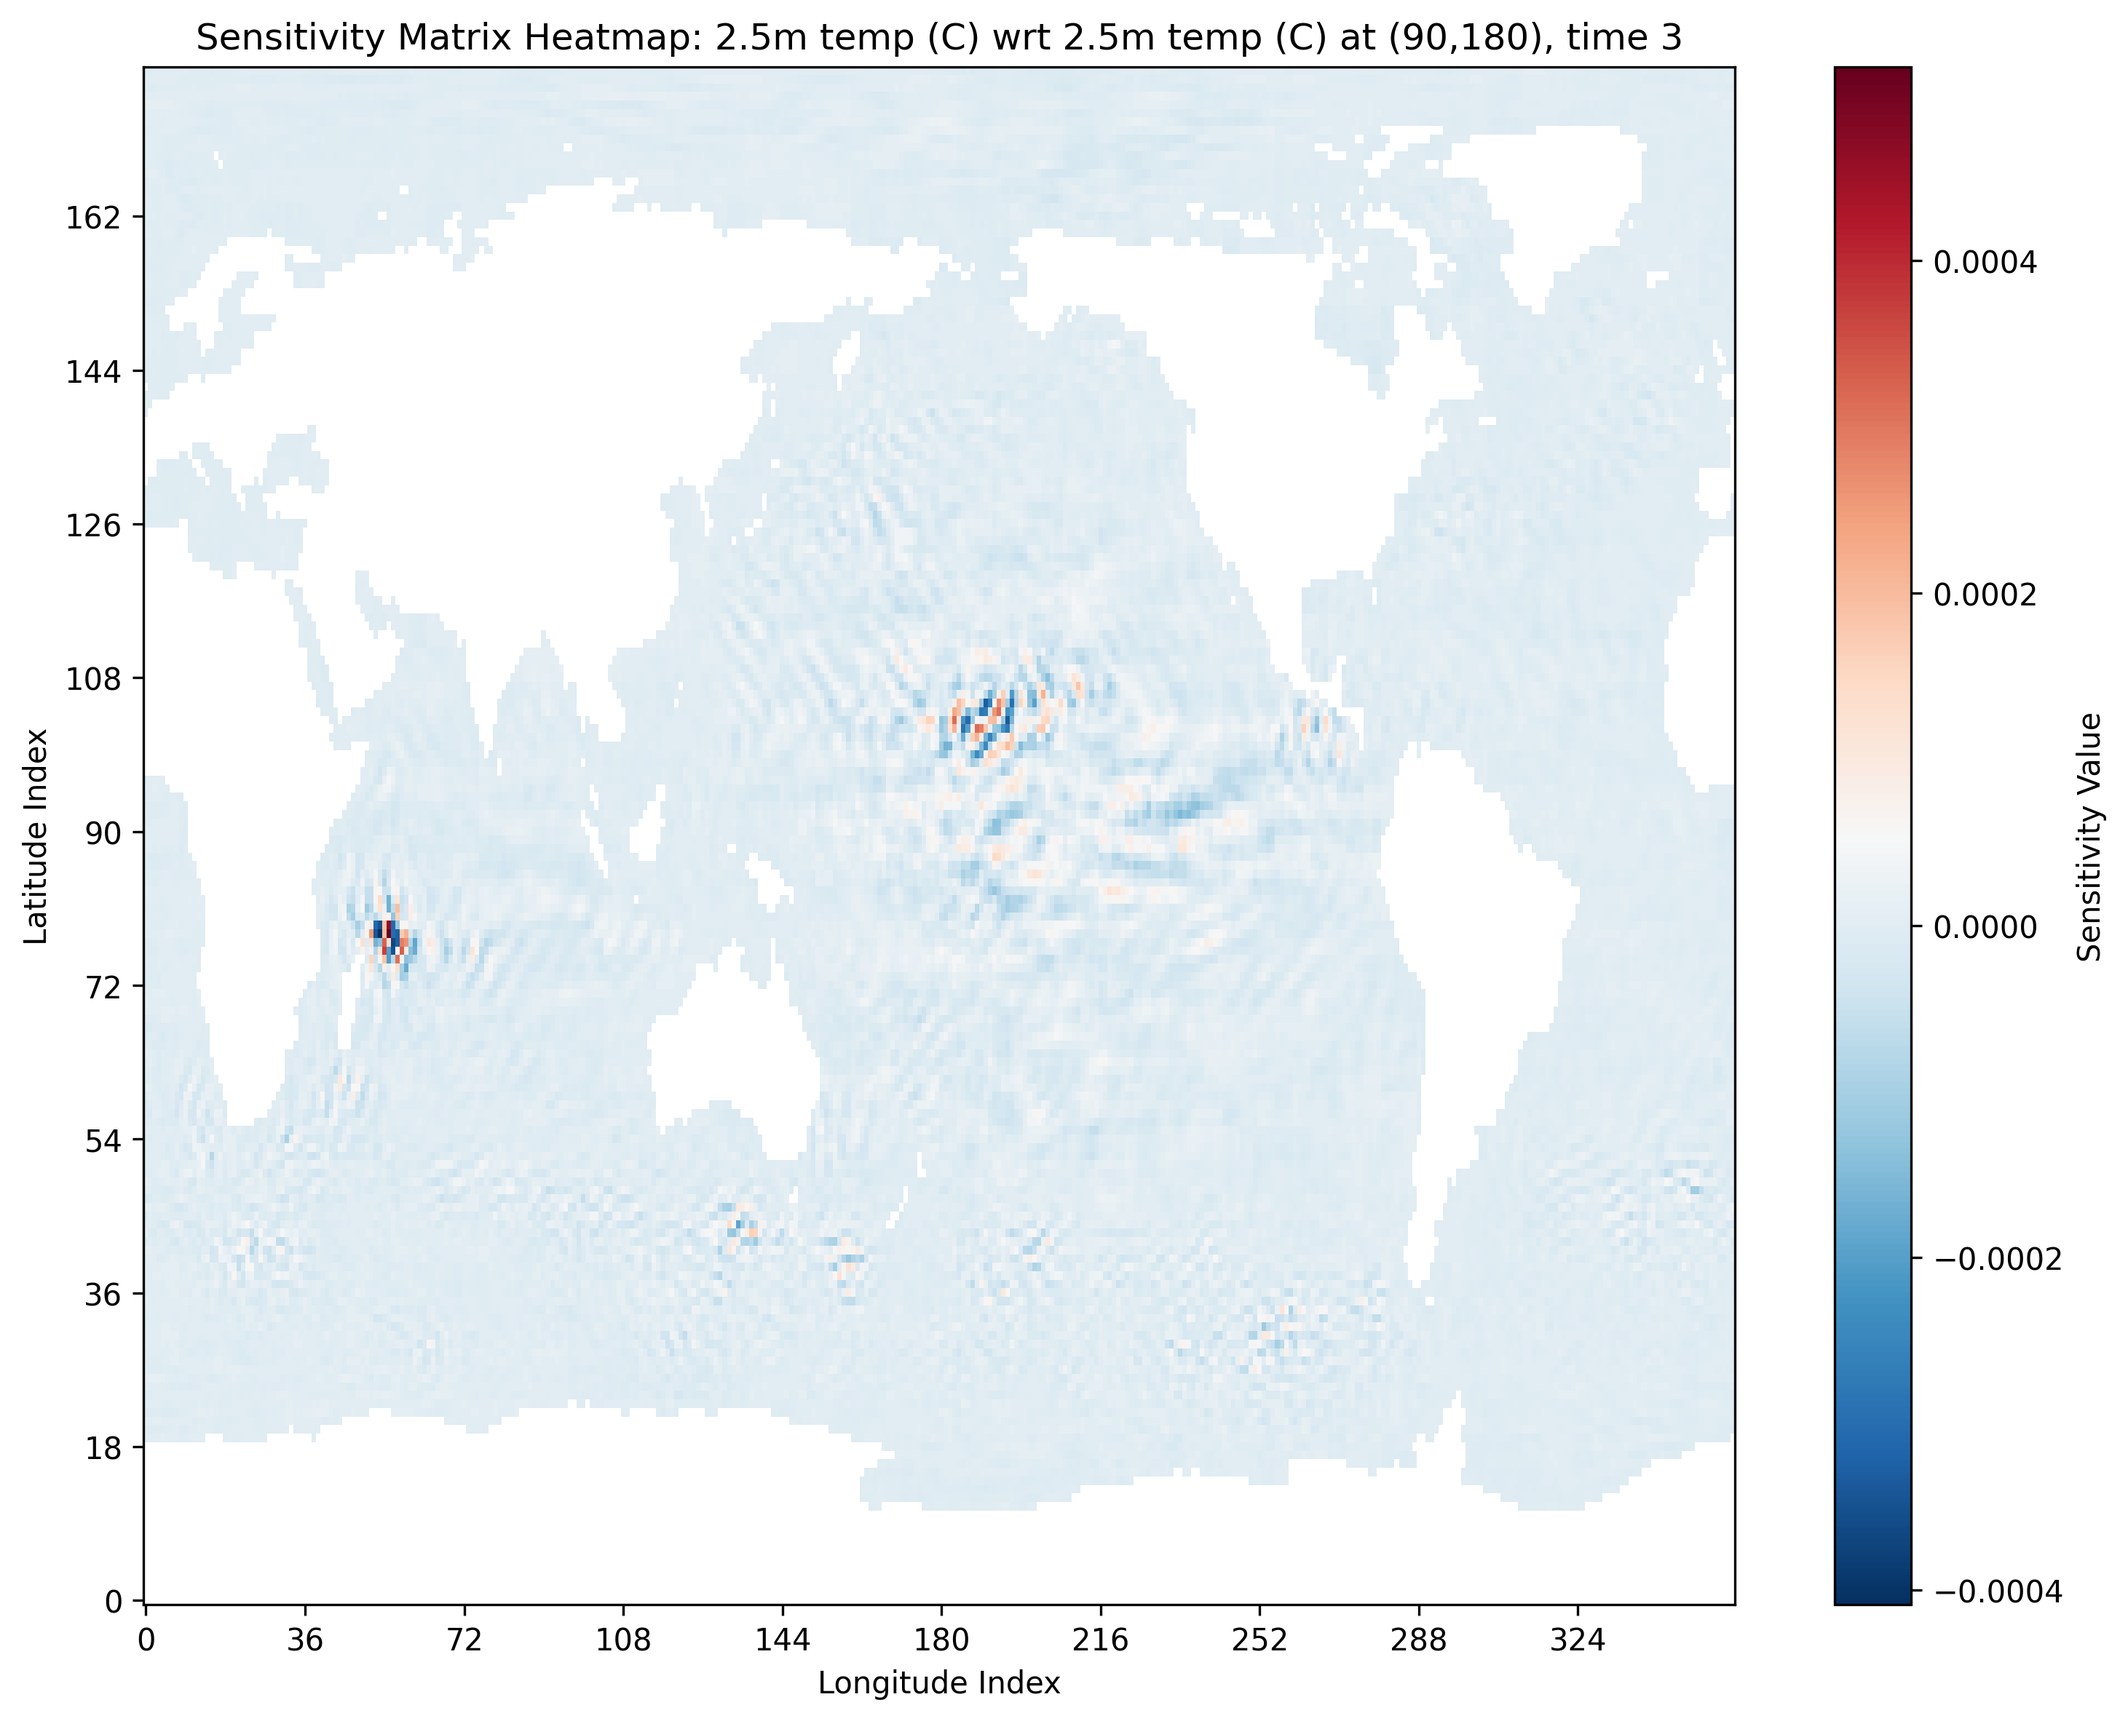
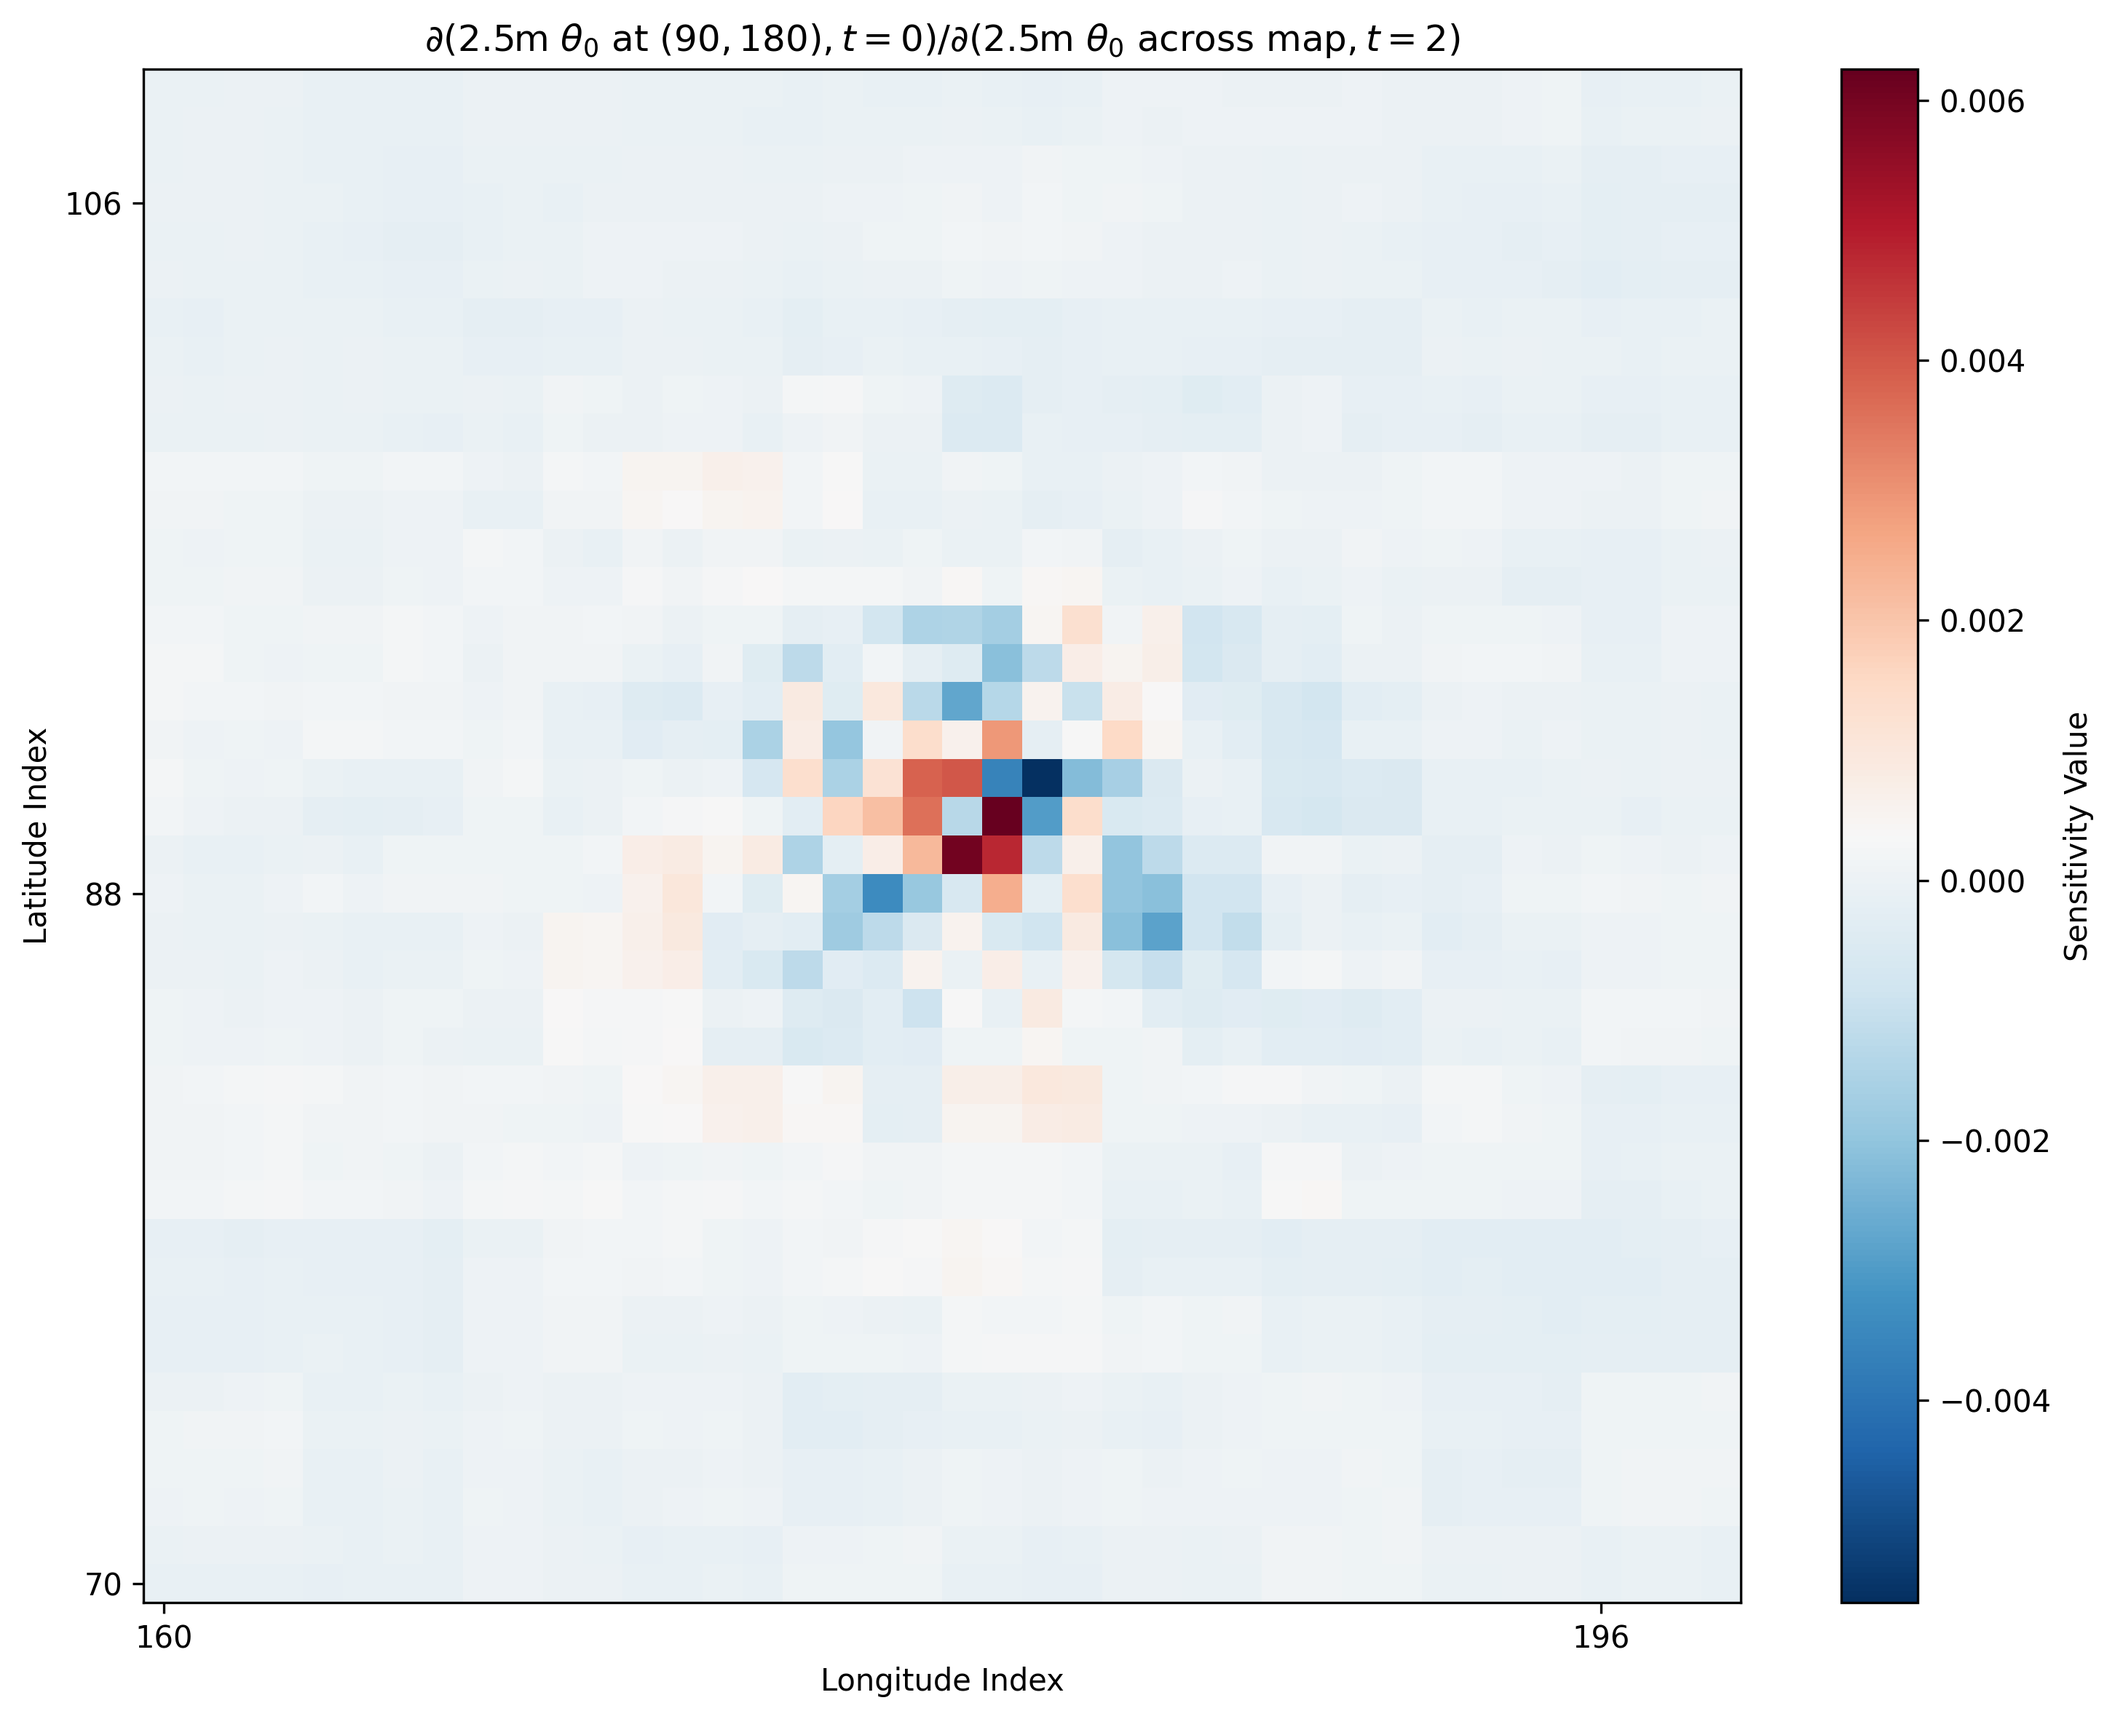
Sensitivity test+file reorganize

diff --git a/Samudra_Testing/perturbation_test.py b/Samudra_Testing/perturbation_test.py
@@ -1,0 +1,131 @@
+import torch
+import numpy as np
+
+def simple_sensitivity(model, data_input, source_coords, target_coords, perturbation_size=1e-4):
+    """
+    Computes sensitivity of target cell to a perturbation in source cell.
+    
+    Parameters:
+    -----------
+    model : torch.nn.Module
+        The model to evaluate sensitivity for
+    data_input : torch.Tensor
+        Input tensor to the model (b, c, h, w)
+    source_coords : tuple
+        (channel, y, x) coordinates of source cell to perturb
+    target_coords : tuple
+        (channel, y, x) coordinates of target cell to measure
+    perturbation_size : float
+        Size of perturbation to apply
+        
+    Returns:
+    --------
+    sensitivity : float
+        Sensitivity value between source and target cells
+    """
+    model.eval()
+    
+    # Make sure we don't modify the original input
+    data_input = data_input.clone().detach()
+    
+    # Unpack coordinates
+    s_c, s_y, s_x = source_coords
+    t_c, t_y, t_x = target_coords
+    
+    # Step 1: Run model on unperturbed input
+    with torch.no_grad():
+        baseline_output = model.forward_once(data_input)
+        baseline_value = baseline_output[0, t_c, t_y, t_x].item()
+    
+    # Step 2: Perturb the input at source coordinates
+    perturbed_input = data_input.clone()
+    perturbed_input[0, s_c, s_y, s_x] += perturbation_size
+    
+    # Step 3: Run model on perturbed input
+    with torch.no_grad():
+        perturbed_output = model.forward_once(perturbed_input)
+        perturbed_value = perturbed_output[0, t_c, t_y, t_x].item()
+    
+    # Step 4: Calculate sensitivity
+    sensitivity = (perturbed_value - baseline_value) / perturbation_size
+    
+    return sensitivity
+
+# Example usage:
+if __name__ == "__main__":
+    # Load model and data 
+    from model import Samudra
+    from data_loaders import Test
+    from utils import extract_wet
+    import xarray as xr
+    
+    # Quick setup for example
+    device = torch.device("cuda" if torch.cuda.is_available() else "cpu")
+    data = xr.open_zarr("./data.zarr")
+    data_mean = xr.open_zarr("./data_mean.zarr")
+    data_std = xr.open_zarr("./data_std.zarr")
+    
+    # Configure model (simplified from samudra_rollout.py)
+    hist = 1
+    exp_num_in = "3D_thermo_all"  # Could also be "3D_thermo_dynamic_all"
+    exp_num_extra = "3D_all_hfds_anom"
+    
+    # Define input variables based on experiment type
+    DEPTH_LEVELS = ['2_5', '10_0', '22_5', '40_0', '65_0', '105_0', '165_0', '250_0', '375_0', 
+                   '550_0', '775_0', '1050_0', '1400_0', '1850_0', '2400_0', '3100_0', 
+                   '4000_0', '5000_0', '6000_0']
+    
+    INPT_VARS = {
+        "3D_thermo_dynamic_all": [f"{k}{j}" for k in ["uo_lev_", "vo_lev_", "thetao_lev_", "so_lev_"] 
+                                 for j in DEPTH_LEVELS] + ["zos"],
+        "3D_thermo_all": [f"{k}{j}" for k in ["thetao_lev_", "so_lev_"] 
+                         for j in DEPTH_LEVELS] + ["zos"]
+    }
+    EXTRA_VARS = {"3D_all_hfds_anom": ["tauuo", "tauvo", "hfds", "hfds_anomalies"]}
+    OUT_VARS = INPT_VARS.copy()
+    
+    inputs_str = INPT_VARS[exp_num_in]
+    extra_in_str = EXTRA_VARS[exp_num_extra]
+    outputs_str = OUT_VARS[exp_num_in]
+    
+    N_in = len(inputs_str)
+    N_extra = len(extra_in_str)
+    N_out = len(outputs_str)
+    
+    num_in = int((hist + 1) * N_in + N_extra)
+    num_out = int((hist + 1) * len(outputs_str))
+    
+    # Create model
+    wet_zarr = data.wetmask
+    wet = extract_wet(wet_zarr, outputs_str, hist)
+    
+    # Load model
+    model = Samudra(n_out=num_out, ch_width=[num_in]+[200,250,300,400], wet=wet.to(device), hist=hist)
+    model.load_state_dict(torch.load("samudra_thermo_seed1.pt", map_location=device)["model"])
+    model = model.to(device)
+    
+    # Create test data
+    test_data = Test(
+        data,
+        inputs_str,
+        extra_in_str,
+        outputs_str,
+        wet,
+        data_mean,
+        data_std,
+        10,  # N_test
+        hist,
+        0,
+        long_rollout=False,
+        device=device,
+    )
+    
+    # Get input data
+    input_data = test_data[0][0].to(device)
+    
+    # Test sensitivity
+    source_coords = (0, 90, 180)  # Surface temperature at center of grid
+    target_coords = (0, 90, 180)  # Surface temperature at nearby point
+    
+    sensitivity = simple_sensitivity(model, input_data, source_coords, target_coords)
+    print(f"Sensitivity from {source_coords} to {target_coords}: {sensitivity}")

diff --git a/Samudra_Testing/plot_sensitivity.py b/Samudra_Testing/plot_sensitivity.py
@@ -12,7 +12,7 @@ print(f"Original sensitivity matrix shape: {sensitivity_matrix.shape}")
 
 sensitivity_latitude = 90  # Center latitude for the matrix (assuming 180x360 grid)
 sensitivity_longitude = 180  # Center longitude for the matrix (assuming 180x360 grid)
-time=3
+t0,t1 = 0,2
 """
 # Path to the wetmask file
 wetmask_path = 'full_wetmask.npy'
@@ -47,12 +47,21 @@ else:
 sensitivity_matrix = sensitivity_matrix.reshape(180, 360)
 print(f"Reshaped sensitivity matrix: {sensitivity_matrix.shape}")
 
-# Define the region of interest in the matrix for cropping
-xmin, xmax = 90-3, 90+4  # Matrix row indices
-ymin, ymax = 180-3, 180+4  # Matrix column indices
+size = "local"
 
-xmin, xmax = 0, 180
-ymin, ymax = 0, 360
+if size == "tiny":
+    # Define the region of interest in the matrix for cropping
+    xmin, xmax = 90-3, 90+4  # Matrix row indices
+    ymin, ymax = 180-3, 180+4  # Matrix column indices
+
+if size == "local":
+    xmin, xmax = 90-20, 90+20  # Matrix row indices
+    ymin, ymax = 180-20, 180+20  # Matrix column indices
+
+if size == "global":
+    xmin, xmax = 0, 180
+    ymin, ymax = 0, 360
+
 
 # Crop the sensitivity matrix to the region of interest
 cropped_sensitivity = sensitivity_matrix[xmin:xmax, ymin:ymax]
@@ -89,7 +98,7 @@ plt.xticks(x_positions[::36], col_indices[::36])  # Show every 36th index for re
 plt.yticks(y_positions[::18], row_indices[::18])  # Show every 18th index for readability
 
 plt.colorbar(label='Sensitivity Value')
-plt.title(f'Sensitivity Matrix Heatmap: 2.5m temp (C) wrt 2.5m temp (C) at ({sensitivity_latitude},{sensitivity_longitude}), time {time}')
+plt.title(f'$\\partial \\left( \\text{{2.5m }} \\theta_0 \\text{{ at }}({sensitivity_latitude},{sensitivity_longitude}), t={t0} \\right) / \\partial \\left( \\text{{2.5m }} \\theta_0 \\text{{ across map}}, t={t1} \\right)$')
 plt.xlabel('Longitude Index')
 plt.ylabel('Latitude Index')
 plt.grid(False)
